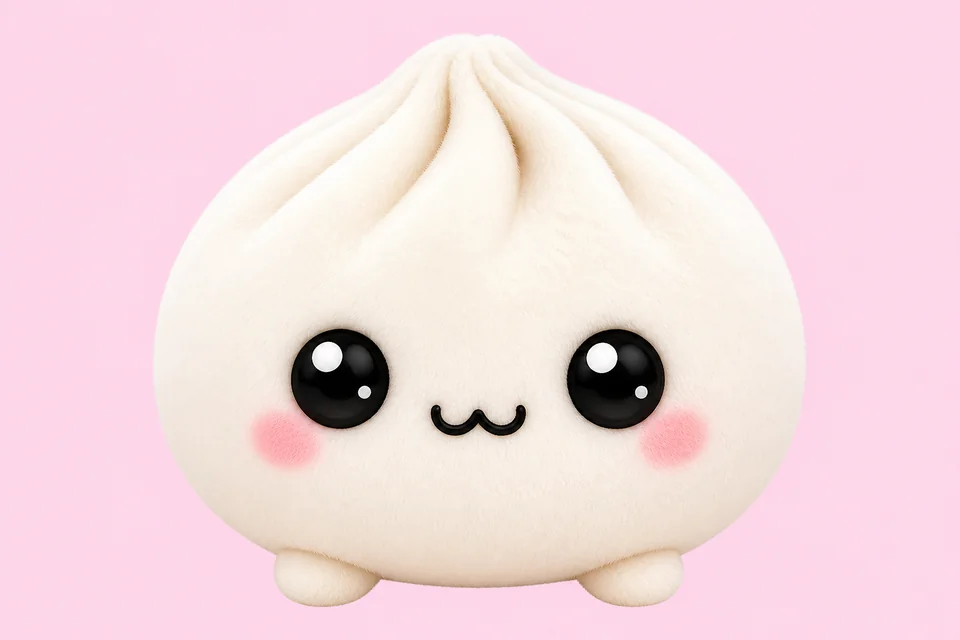
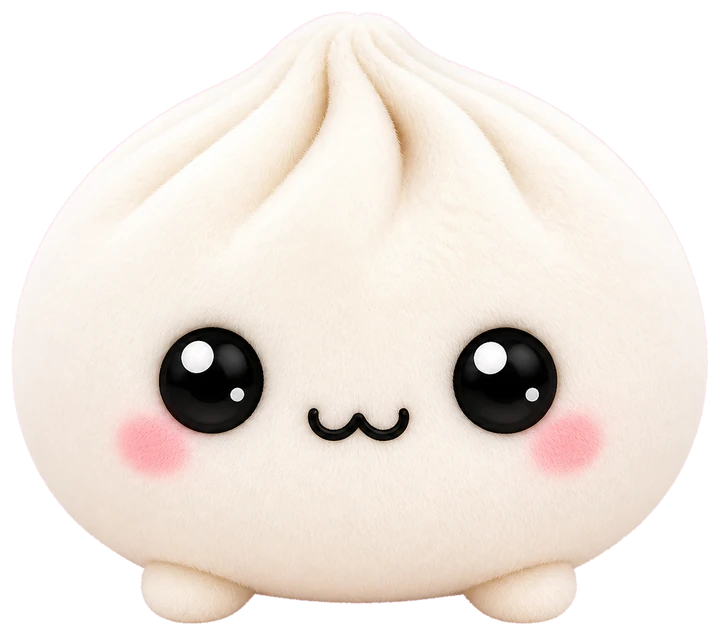
Float Dumpling out of the circle; iOS sheet, moon chips, flower sparkles.

diff --git a/styles.css b/styles.css
@@ -103,9 +103,9 @@ body.night #veil {
 #sneaky .balls { display: flex; justify-content: center; gap: 1px; margin-top: -2px; }
 #sneaky .balls span { width: 7px; height: 7px; background: #a57cff; border-radius: 50%; }
 #buddy-wrap {
-  position: absolute; left: 50%; bottom: 6%;
+  position: absolute; left: 50%; bottom: 3%;
   transform: translateX(-50%);
-  width: min(40vw, 168px); z-index: 4;
+  width: min(52vw, 210px); z-index: 4;
 }
 #thought {
   position: absolute; left: 50%; bottom: 96%;
@@ -137,21 +137,27 @@ body.night #veil {
 }
 #buddy.boop { animation: boop .45s ease; }
 #buddy img {
-  display: block; width: 100%; aspect-ratio: 1; object-fit: cover; object-position: center 42%;
-  border-radius: 46% 46% 42% 42%; background: #ffd6ea;
-  box-shadow: 0 0 0 3px #fff8;
+  display: block; width: 100%; height: auto;
+  object-fit: contain; background: transparent;
+  border-radius: 0; box-shadow: none;
 }
 #chat {
   position: relative; z-index: 8;
   height: var(--chat-h);
   flex-shrink: 0;
-  background: rgba(255, 244, 250, .96);
-  backdrop-filter: blur(16px); -webkit-backdrop-filter: blur(16px);
-  border-top: 1px solid #ffb3d9;
-  border-radius: 22px 22px 0 0;
+  background: rgba(255, 255, 255, .78);
+  backdrop-filter: blur(24px) saturate(1.4);
+  -webkit-backdrop-filter: blur(24px) saturate(1.4);
+  border-top: 0.5px solid rgba(255,255,255,.55);
+  border-radius: 20px 20px 0 0;
   display: flex; flex-direction: column;
-  padding: 8px 12px calc(10px + var(--safe-b) + var(--kb));
-  box-shadow: 0 -8px 28px #ff4fbf22;
+  padding: 4px 12px calc(10px + var(--safe-b) + var(--kb));
+  box-shadow: 0 -12px 40px rgba(90, 36, 80, .12);
+}
+#grabber {
+  width: 36px; height: 5px; border-radius: 99px;
+  background: rgba(60, 60, 67, .28);
+  margin: 6px auto 8px;
 }
 #log {
   flex: 1; overflow-y: auto; -webkit-overflow-scrolling: touch;
@@ -161,8 +167,8 @@ body.night #veil {
   margin: 6px 0; max-width: 86%; padding: 10px 13px;
   border-radius: 18px; line-height: 1.35; word-wrap: break-word;
 }
-.me { margin-left: auto; background: #ffd0ea; color: #6b2458; border-bottom-right-radius: 6px; }
-.bot { background: #fff; color: #7a2d66; box-shadow: 0 2px 0 #ffb3d9; border-bottom-left-radius: 6px; }
+.me { margin-left: auto; background: #ff5eac; color: #fff; border-bottom-right-radius: 6px; }
+.bot { background: #fff; color: #3a1d34; border-bottom-left-radius: 6px; }
 .bot.typing { width: 58px; padding: 12px 16px; }
 #chips {
   display: flex; gap: 8px; overflow-x: auto; padding: 2px 2px 8px;
@@ -180,10 +186,11 @@ input {
   box-shadow: inset 0 0 0 1px #ffd0ea;
 }
 form > button {
-  border: 0; border-radius: 999px; padding: 13px 18px; font-size: 16px; font-weight: 700;
-  background: #ff5eac; color: #fff; box-shadow: 0 3px 0 #d63d8a;
+  border: 0; border-radius: 999px; min-height: 44px; padding: 0 16px;
+  font-size: 17px; font-weight: 600;
+  background: #ff5eac; color: #fff;
 }
-form > button:active { transform: translateY(2px); box-shadow: 0 1px 0 #d63d8a; }
+form > button:active { opacity: .7; }
 @keyframes idle {
   0%,100% { transform: translateY(0); }
   50% { transform: translateY(-10px); }
@@ -200,3 +207,14 @@ form > button:active { transform: translateY(2px); box-shadow: 0 1px 0 #d63d8a; 
 @keyframes pop { 0% { transform: scale(1); opacity: 1; } 100% { transform: scale(1.8); opacity: 0; } }
 
 @keyframes sneak { 0%,100% { opacity: .3; transform: rotate(-18deg) translateY(0); } 50% { opacity: .6; transform: rotate(-12deg) translateY(-3px); } }
+
+.sparkle {
+  position: fixed; width: 8px; height: 8px; margin: -4px 0 0 -4px;
+  border-radius: 50%; background: #fff; box-shadow: 0 0 10px #ffe45c;
+  pointer-events: none; z-index: 6;
+  animation: spark .65s ease-out forwards;
+}
+@keyframes spark {
+  0% { transform: scale(.3); opacity: 1; }
+  100% { transform: scale(1.8) translateY(-22px); opacity: 0; }
+}

diff --git a/index.html b/index.html
@@ -10,12 +10,12 @@
 <meta name="theme-color" content="#ff8fc5">
 <meta http-equiv="Cache-Control" content="no-cache, no-store, must-revalidate">
 <meta http-equiv="Pragma" content="no-cache">
-<link rel="apple-touch-icon" href="assets/dumpling-icon.png?v=9">
-<link rel="manifest" href="manifest.webmanifest?v=9">
-<link rel="preload" as="image" href="assets/garden.webp?v=9">
-<link rel="preload" as="image" href="assets/moon.webp?v=9">
-<link rel="preload" as="image" href="assets/dumpling-avatar.webp?v=9">
-<link rel="stylesheet" href="styles.css?v=9">
+<link rel="apple-touch-icon" href="assets/dumpling-icon.png?v=10">
+<link rel="manifest" href="manifest.webmanifest?v=10">
+<link rel="preload" as="image" href="assets/garden.webp?v=10">
+<link rel="preload" as="image" href="assets/moon.webp?v=10">
+<link rel="preload" as="image" href="assets/dumpling-avatar.webp?v=10">
+<link rel="stylesheet" href="styles.css?v=10">
 <title>Dumpling</title>
 </head>
 <body>
@@ -23,8 +23,8 @@
     <div id="stage">
       <div id="sky"></div>
       <div id="garden">
-        <img class="scene" id="garden-art" src="assets/garden.webp?v=9" alt="">
-        <img class="scene" id="moon-art" src="assets/moon.webp?v=9" alt="">
+        <img class="scene" id="garden-art" src="assets/garden.webp?v=10" alt="">
+        <img class="scene" id="moon-art" src="assets/moon.webp?v=10" alt="">
       </div>
       <div id="veil"></div>
       <div id="sneaky" aria-hidden="true"><div class="shaft"></div><div class="head"></div><div class="balls"><span></span><span></span></div></div>
@@ -39,11 +39,12 @@
           <span class="dots" id="thought-dots" hidden><i></i><i></i><i></i></span>
         </div>
         <button type="button" id="buddy" aria-label="Dumpling">
-          <img src="assets/dumpling-avatar.webp?v=9" alt="">
+          <img src="assets/dumpling-avatar.webp?v=10" alt="">
         </button>
       </div>
     </div>
     <section id="chat">
+      <div id="grabber" aria-hidden="true"></div>
       <div id="log"></div>
       <div id="chips"></div>
       <form id="form" autocomplete="off">
@@ -52,6 +53,6 @@
       </form>
     </section>
   </div>
-  <script src="app.js?v=9"></script>
+  <script src="app.js?v=10"></script>
 </body>
 </html>

diff --git a/app.js b/app.js
@@ -1,6 +1,6 @@
 (function () {
   "use strict";
-  const BUILD = 9;
+  const BUILD = 10;
   const PLAY_KEY = "dumpling-play-v1";
   const COLORS = {
     green: ["#d9ffd6", "#7dff8a", "#1fbf4a"],
@@ -53,6 +53,7 @@
 
   els.form.addEventListener("submit", onSubmit);
   els.buddy.addEventListener("click", boop);
+  els.stage.addEventListener("click", onStage);
   els.hudDone.addEventListener("click", function () { if (playing) endGame("Okay, pausing. The glows will wait."); });
   els.chips.addEventListener("click", onChip);
   window.addEventListener("resize", fitKeyboard);
@@ -259,10 +260,18 @@
   }
 
   function renderChips() {
+    const moonColors = ["green", "teal", "blue", "yellow", "purple"];
+    let next = "green";
+    for (let i = 0; i < moonColors.length; i++) {
+      if (moonColors[i] === play.moon) {
+        next = moonColors[(i + 1) % moonColors.length];
+        break;
+      }
+    }
     const items = playing
       ? [["I'm done", "done"]]
       : [
-          ["Make the moon green", "make the moon green"],
+          ["Moon " + next, "make the moon " + next],
           ["Catch fireflies", "catch fireflies"],
           [play.night ? "Make it morning" : "Make it night", play.night ? "make it morning" : "make it night"]
         ];
@@ -276,6 +285,23 @@
     }
   }
 
+
+  function onStage(e) {
+    if (e.target.closest("#buddy") || e.target.closest("#hud")) return;
+    if (e.target.classList && e.target.classList.contains("firefly")) return;
+    sparkleAt(e.clientX, e.clientY);
+  }
+  function sparkleAt(x, y) {
+    for (let i = 0; i < 5; i++) {
+      const s = document.createElement("div");
+      s.className = "sparkle";
+      s.style.left = (x + (Math.random() * 28 - 14)) + "px";
+      s.style.top = (y + (Math.random() * 20 - 10)) + "px";
+      s.style.animationDelay = (i * 0.04) + "s";
+      document.body.appendChild(s);
+      setTimeout(function () { if (s.parentNode) s.parentNode.removeChild(s); }, 700);
+    }
+  }
   function spawnStars() {
     els.sky.querySelectorAll(".star").forEach(function (n) { n.remove(); });
     for (let i = 0; i < 22; i++) {

diff --git a/sw.js b/sw.js
@@ -1,4 +1,4 @@
-const VER = "dumpling-v9";
+const VER = "dumpling-v10";
 self.addEventListener("install", e => { self.skipWaiting(); });
 self.addEventListener("activate", e => {
   e.waitUntil(
